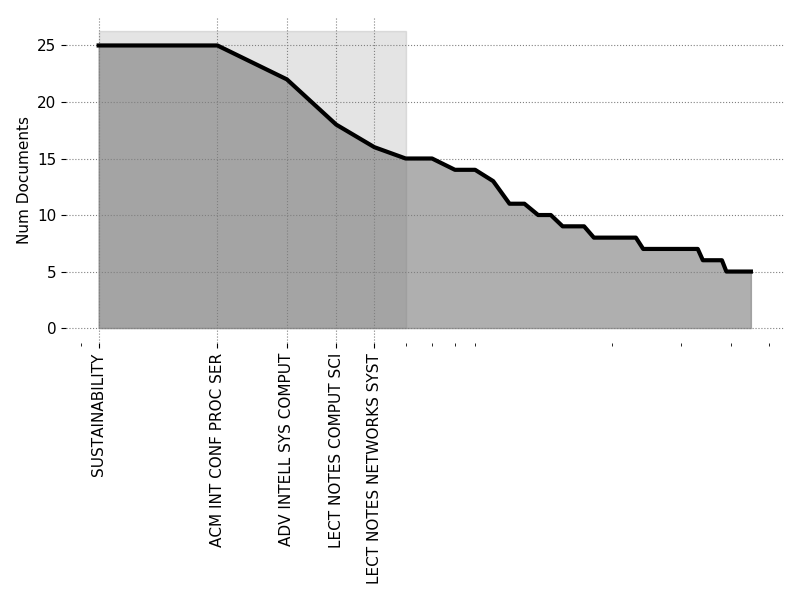
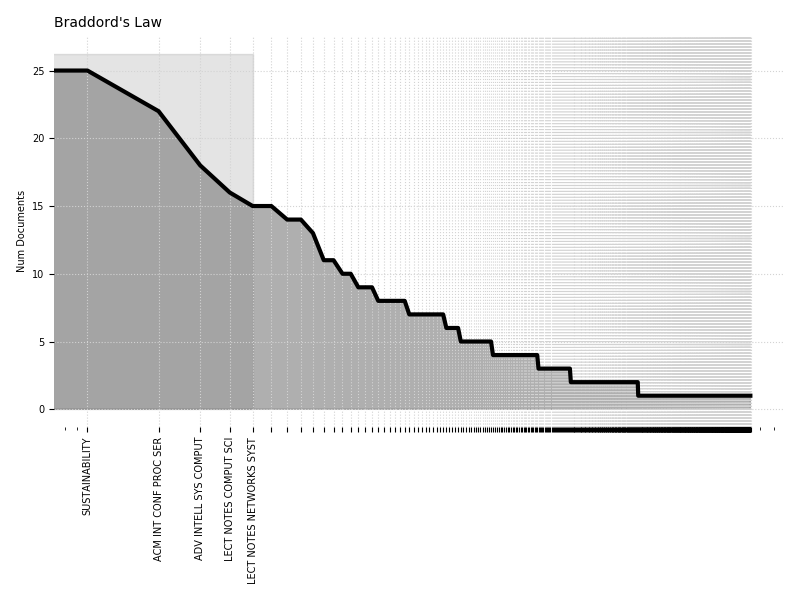
bradford

diff --git a/techminer/bradford_plot.py b/techminer/bradford_plot.py
@@ -40,7 +40,7 @@ def _plot(
     color = cmap(0.6)
 
     ax_.plot(
-        list(range(1, n_sources + 1)),
+        list(range(0, n_sources)),
         num_records_by_source,
         linestyle="-",
         linewidth=3,
@@ -48,14 +48,14 @@ def _plot(
     )
 
     ax_.fill_between(
-        list(range(1, n_sources + 1)),
+        list(range(0, n_sources + 0)),
         num_records_by_source,
         color=color,
         alpha=0.6,
     )
 
     ax_.fill_between(
-        [1, n_core_sources + 1],
+        [0, n_core_sources + 0],
         [ax_.get_ylim()[1], ax_.get_ylim()[1]],
         color=color,
         alpha=0.2,
@@ -66,16 +66,20 @@ def _plot(
 
     ax_.set_xscale("log")
 
-    ax_.grid(axis="y", color="gray", linestyle=":")
-    ax_.grid(axis="x", color="gray", linestyle=":")
-    ax_.set_ylabel("Num Documents")
+    ax_.grid(axis="y", color="lightgray", linestyle=":")
+    ax_.grid(axis="x", color="lightgray", linestyle=":")
+    ax_.set_ylabel("Num Documents", fontsize=7)
 
     ax_.tick_params(axis="x", labelrotation=90)
 
-    ax_.set_xticks(list(range(1, n_core_sources + 1)))
+    ax_.set_xticks(list(range(1, n_sources + 1)))
     ax_.get_xaxis().set_major_formatter(matplotlib.ticker.ScalarFormatter())
-    ax_.set_xticklabels(core_sources_names.tolist())
+    ax_.set_xticklabels(core_sources_names.tolist(), fontsize=7)
 
+    for item in ax_.get_yticklabels():
+        item.set_fontsize(7)
+
+    ax_.set_title("Bradford's Law", fontsize=10, loc="left", color="k")
     fig.set_tight_layout(True)
     return fig
 
@@ -85,20 +89,20 @@ def _prepare_table(documents):
     documents = documents.copy()
 
     documents = documents.assign(num_documents=1)
-    exploded_records = explode(
-        documents[
-            [
-                "source_name",
-                "num_documents",
-                "global_citations",
-                "document_id",
-                "iso_source_name",
-            ]
-        ],
-        "source_name",
-        sep="; ",
-    )
-    sources = exploded_records.groupby("iso_source_name", as_index=False).agg(
+    # exploded_records = explode(
+    #     documents[
+    #         [
+    #             "source_name",
+    #             "num_documents",
+    #             "global_citations",
+    #             "document_id",
+    #             "iso_source_name",
+    #         ]
+    #     ],
+    #     "source_name",
+    #     sep="; ",
+    # )
+    sources = documents.groupby("iso_source_name", as_index=False).agg(
         {
             "num_documents": np.sum,
             "global_citations": np.sum,
@@ -113,7 +117,7 @@ def _prepare_table(documents):
     core_documents = int(len(documents) / 3)
     core_sources = sources[sources.cum_num_documents <= core_documents]
 
-    num_documents_by_source = core_sources.num_documents.copy()
+    num_documents_by_source = sources.num_documents.copy()
     core_sources_names = core_sources.iso_source_name.copy()
 
     return num_documents_by_source, core_sources_names

diff --git a/techminer/most_local_cited_sources.py b/techminer/most_local_cited_sources.py
@@ -1,0 +1,63 @@
+"""
+Most local cited sources
+===============================================================================
+
+
+>>> from techminer import *
+>>> most_relevant_sources()
+
+.. image:: images/most_local_cited_sources.png
+    :width: 500px
+    :align: center
+
+
+"""
+import matplotlib.pyplot as plt
+
+from .column_indicators import column_indicators
+
+
+def most_local_cited_sources(
+    directory=None,
+    num_sources=20,
+    cmap="Greys",
+    figsize=(6, 6),
+):
+    sources = column_indicators(directory=directory, column="iso_source_name")[
+        "local_citations"
+    ]
+    sources = sources.sort_values(ascending=False).head(num_sources)
+
+    cmap = plt.cm.get_cmap(cmap)
+    color = [
+        cmap(0.3 + 0.70 * (d - min(sources)) / (max(sources) - min(sources)))
+        for d in sources
+    ]
+
+    fig = plt.Figure(figsize=figsize)
+    ax = fig.subplots()
+
+    ax.barh(
+        sources.index,
+        sources.values,
+        color=color,
+        alpha=0.7,
+    )
+    ax.set_title("Most local cited sources", fontsize=10, loc="left", color="k")
+    ax.set_ylabel("Source", color="k")
+    ax.set_xlabel("Local Citations", color="k")
+    ax.set_yticklabels(
+        sources.index,
+        fontsize=7,
+    )
+
+    for item in ax.get_xticklabels():
+        item.set_fontsize(7)
+    ax.invert_yaxis()
+
+    ax.spines["left"].set_visible(False)
+    ax.spines["bottom"].set_color("gray")
+    ax.spines["top"].set_visible(False)
+    ax.spines["right"].set_visible(False)
+    fig.set_tight_layout(True)
+    return fig

diff --git a/techminer/__init__.py b/techminer/__init__.py
@@ -40,6 +40,7 @@ from .import_scopus_file import import_scopus_file
 from .line_chart import line_chart
 from .lotka_plot import lotka_plot
 from .main_path_network import main_path_network
+from .most_local_cited_sources import most_local_cited_sources
 
 # from .mean_global_citations import mean_global_citations
 from .most_relevant_sources import most_relevant_sources

diff --git a/sphinx/index.rst b/sphinx/index.rst
@@ -41,6 +41,7 @@ Analysis of bibliographic datasets using Python
     column_indicators_by_year
     growth_indicators
     impact_indicators
+    most_local_cited_sources
     most_relevant_sources
     summary_view
 

diff --git a/sphinx/most_local_cited_sources.rst b/sphinx/most_local_cited_sources.rst
@@ -1,0 +1,4 @@
+.. automodule:: techminer.most_local_cited_sources
+    :members:
+    :undoc-members:
+    :show-inheritance:
